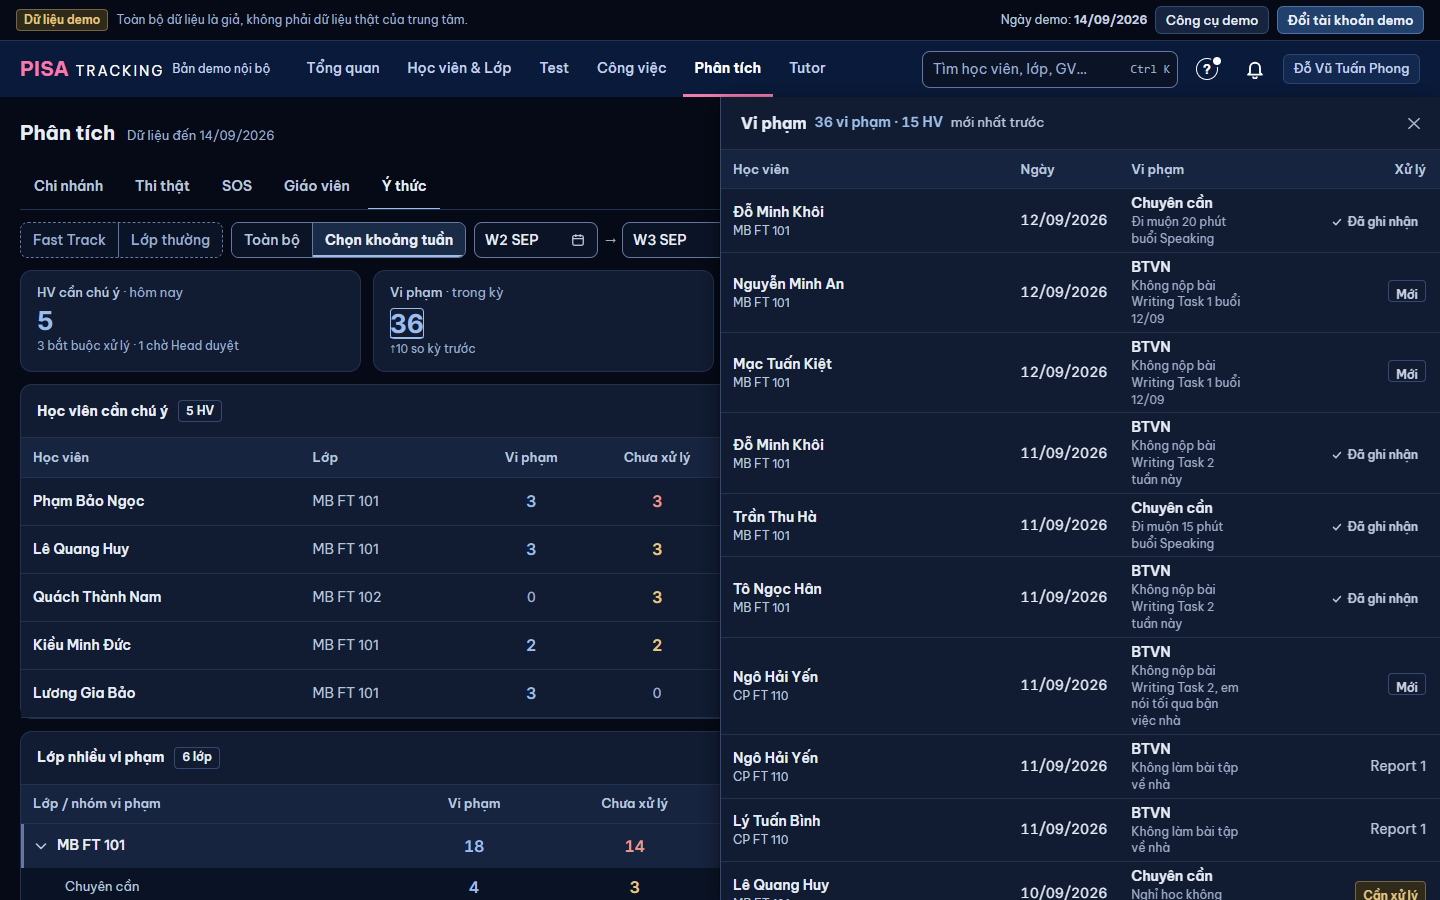
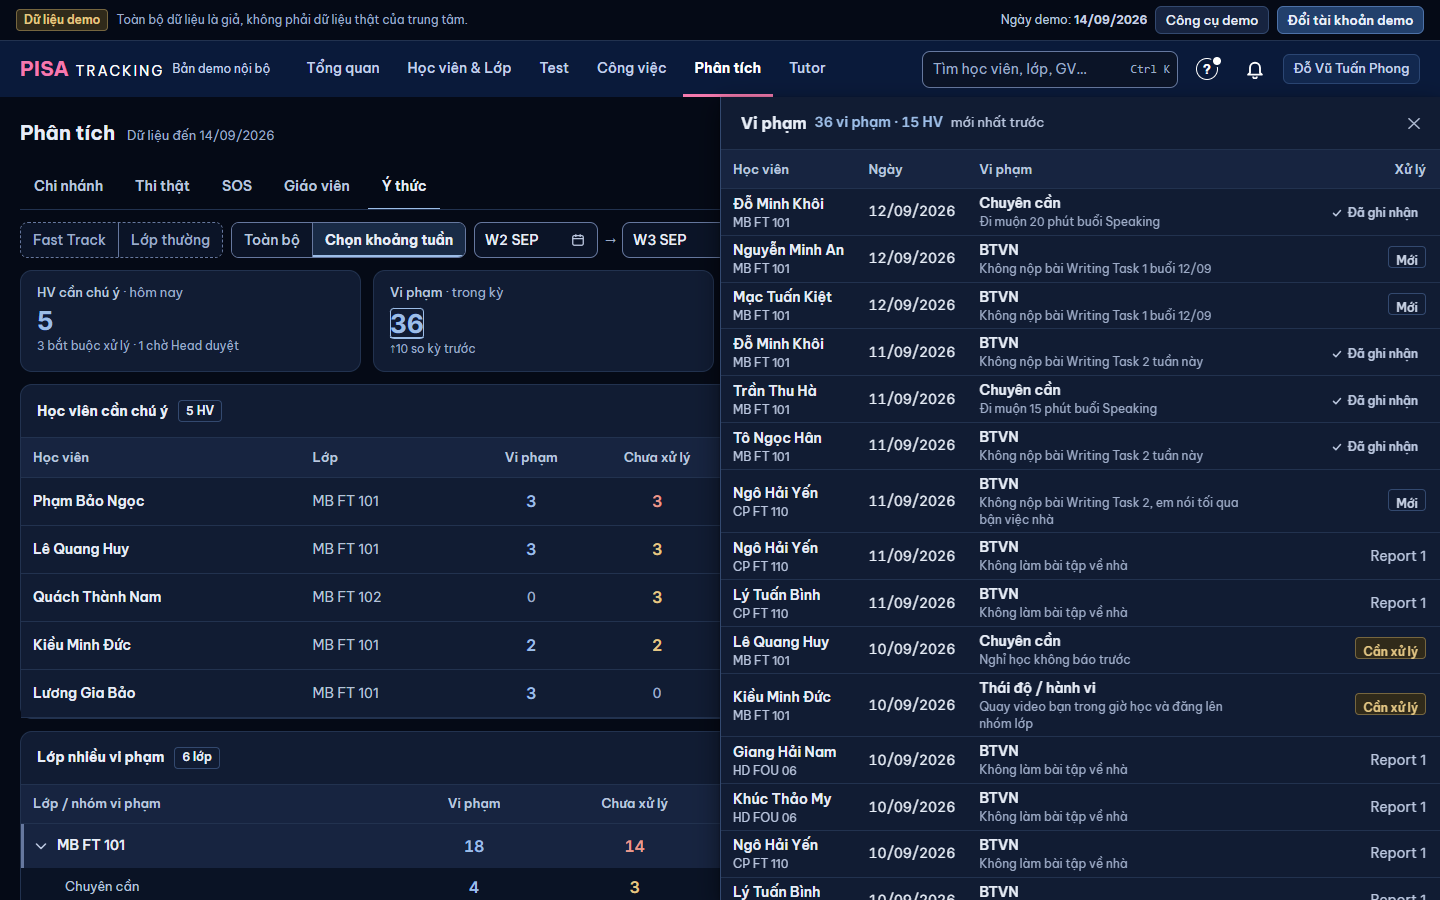
Panel số: chia lại cột (tên vừa chữ, cột chữ dài nhận phần dư, cột số đều, cột cuối sát phải)

diff --git a/web/src/index.css b/web/src/index.css
@@ -924,8 +924,15 @@
     .pn-bang .bang { table-layout: auto; }
     .pn-bang .bang col { width: auto !important; }
     .pn-bang .bang :is(th, td) { width: 1%; white-space: nowrap; }
-    .pn-bang .bang :is(th, td):is([data-kieu="ten"], [data-linh]) { width: auto; white-space: normal; overflow-wrap: anywhere; }
-    .pn-bang .bang :is(td[data-kieu="ten"], td[data-linh]) .bang-phu { white-space: normal; }
+    .pn-bang .bang :is(th, td)[data-linh] { width: auto; white-space: normal; overflow-wrap: anywhere; }
+    /* PTA 25/11: cột tên HV vừa TÊN dài nhất (không giành chỗ với cột chữ dài); cột linh hoạt (Vi phạm, PA, lý do) nhận phần dư, nhóm / mô tả tối đa 2 dòng, đủ chữ ở title. */
+    .pn-bang .bang :is(th, td)[data-kieu="ten"] { width: 1%; white-space: nowrap; }
+    [data-pn] .pn-than .pn-bang table.bang[data-deu] col[data-kieu="ten"] { width: 1% !important; }   /* thắng `--ten-pt` (40 % của cột tên) ở khối panel trên */
+    /* NH9 (chủ SP 25/11 "cân đối hàng cột"): cột số cùng bề rộng (đủ chữ "Chưa xử lý"), cột cuối căn phải sát mép panel. */
+    .pn-bang .bang :is(th, td)[data-kieu="so"] { min-width: 92px; }
+    [data-pn="so720"] .bang :is(th, td):last-child:not(:first-child, [data-linh]) { text-align: right; padding-right: 1.25rem; }
+    .pn-bang .bang td[data-linh] .bang-phu { white-space: normal; }
+    .pn-bang .bang td[data-linh] :is(.bang-phu, .cat-2d) { display: -webkit-box; -webkit-box-orient: vertical; -webkit-line-clamp: 2; overflow: hidden; }
     .pn-bang .bang > tbody > tr > td { padding-top: 0.45rem; padding-bottom: 0.45rem; }
   }
   .bang td[data-kieu="chip"] { white-space: nowrap; }

diff --git a/web/src/ui/BangSoPanel.tsx b/web/src/ui/BangSoPanel.tsx
@@ -2,7 +2,7 @@ import type { ReactNode } from 'react';
 
 /**
  * BẢNG TRONG PANEL SỐ 720 (SO-720, mockup v24 `phan-tich-panel-so.html` B0–B8; DESIGN NH9). Một bảng sát mép panel: cột 1 (Học viên) vừa chữ, mọi cột còn lại rộng
- * BẰNG NHAU và căn GIỮA; cột chữ / ngày căn trái; hạn ở cột cuối căn phải sát mép. Cột lý do (`nen`) nền nhấn nhạt. Dòng 48 px, không đường kẻ dọc.
+ * BẰNG NHAU và căn GIỮA; cột chữ / ngày căn trái; cột cuối căn phải sát mép. Cột lý do (`nen`) nền nhấn nhạt. Dòng 48 px, không đường kẻ dọc.
  * Cố định bố cục (`table-layout: fixed`): chữ dài xuống dòng trong ô, không đè sang ô bên.
  */
 export type CotSo = {
@@ -17,7 +17,8 @@ const CAN = { trai: 'text-left', giua: 'text-center', phai: 'text-right' } as co
 export function BangSoPanel<T>({ ten, cot, hang, khoa, o }: {
   ten: string; cot: readonly CotSo[]; hang: readonly T[]; khoa: (h: T) => string | number; o: (h: T, c: CotSo) => ReactNode;
 }) {
-  const canCua = (c: CotSo, i: number) => c.can ?? (i === 0 ? 'trai' : 'giua');
+  /* NH9: cột cuối SÁT MÉP PHẢI (không để khoảng trống giữa số cuối và mép panel). */
+  const canCua = (c: CotSo, i: number) => c.can ?? (i === 0 ? 'trai' : i === cot.length - 1 ? 'phai' : 'giua');
   return (
     <div className="table-scroll">
       <table className="w-full" style={{ tableLayout: 'fixed' }} aria-label={ten}>

diff --git a/web/src/ui/BangLuotPanel.tsx b/web/src/ui/BangLuotPanel.tsx
@@ -383,7 +383,7 @@ export function BangLuotPanel({ tieuDe, loai = t('Số · Test + SOS'), data, lo
     if (c.key === 'ten') return lkHv(h.studentId, h.ten);
     if (c.key === 'lop') return lkLop(h.classId, h.lop);
     if (c.key === 'ngay') return <span className="tabular-nums">{ddmm(h.ngay)}</span>;
-    if (c.key === 'vp') return <b className="font-semibold">{dich(h.nhom)}</b>;
+    if (c.key === 'vp') return <b className="cat-2d font-semibold" title={dich(h.nhom)}>{dich(h.nhom)}</b>;
     if (c.key === 'nguoi') return h.nguoiGhi ?? mo('—');
     return ttV(h);
   };
@@ -430,7 +430,7 @@ export function BangLuotPanel({ tieuDe, loai = t('Số · Test + SOS'), data, lo
     { key: 'pa', nhan: 'PA', kieu: 'chu', linhHoat: true },
     ...(nghiaVu
       ? [{ key: 'han', nhan: t('Hạn'), kieu: 'chu', rong: 104 }, { key: 'ghi', nhan: t('Ngày ghi'), kieu: 'chu', rong: 104 }, { key: 'dung', nhan: t('Đúng hạn'), kieu: 'chu', rong: 124 }] as DinhNghiaCot[]
-      : [{ key: 'kq', nhan: t('Kết quả'), kieu: 'chu', rong: 164 }, { key: 'nguoi', nhan: t('Người phụ trách'), kieu: 'chu', rong: 140 }] as DinhNghiaCot[]),
+      : [{ key: 'kq', nhan: t('Kết quả'), kieu: 'chu', rong: 164 }, { key: 'nguoi', nhan: t('Phụ trách'), kieu: 'chu', rong: 140 }] as DinhNghiaCot[]),
   ];
   const oP = (h: HP, c: DinhNghiaCot): ReactNode => {
     if (c.key === 'ten') return lkHv(h.studentId, h.ten);

diff --git a/docs/anh/panel-so-cao-het/khop-khac.md b/docs/anh/panel-so-cao-het/khop-khac.md
@@ -29,8 +29,61 @@ Ca 1 dòng — Thi thật › Theo GV, ô "1" Vượt:
 - 1280: `ket-qua-thi-1-hang-1280-truoc.png` | `ket-qua-thi-1-hang-1280-sau.png`
 - 375: `ket-qua-thi-1-hang-375-truoc.png` | `ket-qua-thi-1-hang-375-sau.png`
 
-Ca dài:
-- Ý thức, 36 vi phạm: `vi-pham-dai-1440-truoc.png` | `vi-pham-dai-1440-sau.png`
-- Tổng hợp, Lượt MT 8 dòng: `lan-mt-8-hang-1440-truoc.png` | `lan-mt-8-hang-1440-sau.png`
+Ca cột chữ dài (1440 và 1280): ảnh "trước" của nhóm này là khung cao hết nhưng cột cũ; "sau" là cột đã chia lại.
+- Ý thức, 36 vi phạm: `vi-pham-dai-{1440,1280}-truoc.png` | `…-sau.png`
+- Ý thức, theo lớp: `vi-pham-lop-{1440,1280}-truoc.png` | `…-sau.png`
+- Case chưa chốt PA: `chua-chot-pa-{1440,1280}-truoc.png` | `…-sau.png`
+- PA có cải thiện: `pa-co-cai-thien-{1440,1280}-truoc.png` | `…-sau.png`
 
-Không dùng chú thích `ponytail:`.
+## Chia lại cột chữ dài (PTA rà #2120)
+| Panel | TRƯỚC | SAU |
+|---|---|---|
+| Vi phạm (Ý thức) | Học viên 288 px, Ngày 111, Vi phạm 135 (mô tả 3–5 dòng), khoảng trống giữa Học viên và Ngày | Học viên 136 (vừa tên dài nhất), Ngày 111, Vi phạm 287 nhận phần dư, Xử lý sát phải; nhóm / mô tả tối đa 2 dòng, đủ chữ ở `title` |
+| PA có cải thiện | cột PA 91 (mô tả bị cắt), bảng tràn ngang ~20 px, "Người phụ trách" bị cắt mép phải | PA 179, đầu cột đổi "Phụ trách" (cùng tên với panel Chưa chốt PA), không tràn |
+| Chưa chốt PA · Tổng hợp · HV có Case | không đổi | cột cuối (Hạn / Kỳ vọng) căn phải sát mép |
+| Thi thật (bảng điểm) | cột cuối (Lệch / Target / Overall) căn giữa, cách mép phải ~50 px | cột cuối căn phải sát mép (`BangSoPanel`) |
+| Ý thức theo HV | "Vi phạm" 77 ≠ "Chưa xử lý" 91 | cột số cùng 92 px (`min-width`) |
+
+Gốc lỗi: khối panel đặt cột tên = 40 % bảng (`--ten-pt`). Sửa ở `web/src/index.css` (khối `.pn-bang`, ≥ 640): cột tên `width: 1%` + một dòng, cột linh hoạt nhận phần dư. Dùng chung nên mọi panel bảng số theo; đo 6 panel × 2 cỡ: `scrollWidth − clientWidth = 0`.
+
+## Số đo cột (JS, dark, vai Head) — mọi bảng trong panel số Phân tích
+Mỗi ô: `cột: rộng px / thừa px (rộng − đệm − chữ rộng nhất) / số dòng tối đa`. Tiêu chí PTA: không cột nào thừa > 40 px khi cột khác > 2 dòng · cột số đều nhau (lệch ≤ 8 px) · cột cuối căn phải sát mép (chữ cách mép ≤ 26 px) · không tràn ngang. Kết quả: **36 / 36 mẫu đạt** (bảng khác nhau × 1440, 1280).
+
+| Cỡ | Bảng (cột: rộng / thừa / dòng) |
+|---|---|
+| 1440 | Học viên:139/0/2d MT:74/0/2d L:68/-7/1d R:69/-7/1d W1:68/-7/1d W2:68/-7/1d S:69/-7/1d OVR:69/7/1d Kỳ vọng:97/49/1d |
+| 1440 | Học viên:124/0/2d MT:76/0/2d L:68/8/1d R:69/8/1d W1:70/-4/1d W2:70/-4/1d S:71/-4/1d OVR:71/10/1d Kỳ vọng:100/51/1d |
+| 1440 | Học viên:168/0/2d Case:209/0/1d Điểm / KV:100/18/1d Phụ trách:130/4/1d Hạn:112/-9/1d |
+| 1440 | Học viên:130/0/1d Lớp:93/0/2d Case:57/13/1d PA:179/0/3d Kết quả:159/0/1d Phụ trách:122/0/1d |
+| 1440 | Học viên:176/0/2d Ngày thi:104/9/1d L:73/43/1d R:73/43/1d W:73/43/1d S:73/43/1d OVR:73/29/1d Target:73/27/1d |
+| 1440 | Học viên:220/107/1d Lớp:110/31/1d Tuần học:110/48/1d MT gần nhất:168/0/1d Overall / KV:110/14/1d |
+| 1440 | Học viên:220/0/2d Ngày thi:125/30/1d L:125/79/1d Target:125/95/1d Lệch:125/69/1d |
+| 1440 | Học viên:220/0/2d Ngày thi:125/30/1d R:125/80/1d Target:125/95/1d Lệch:125/69/1d |
+| 1440 | Học viên:220/0/2d Ngày thi:125/30/1d W:125/79/1d Target:125/95/1d Lệch:125/69/1d |
+| 1440 | Học viên:220/0/2d Ngày thi:125/30/1d S:125/79/1d Target:125/95/1d Lệch:125/69/1d |
+| 1440 | Học viên:136/0/2d Ngày:111/0/1d Vi phạm:287/0/3d Xử lý:186/0/1d |
+| 1440 | Ngày:111/0/1d Vi phạm:495/0/2d Xử lý:113/-1/1d |
+| 1440 | Học viên:136/0/1d Lớp:90/0/1d Vi phạm:92/59/1d Chưa xử lý:92/59/1d Bậc hiện tại:148/0/1d Lần xử lý gần nhất:162/16/1d |
+| 1440 | Học viên:127/0/2d Ngày:111/0/1d Vi phạm:296/0/2d Xử lý:186/0/1d |
+| 1440 | Học viên:127/0/1d Lớp:90/0/1d Vi phạm:92/59/1d Chưa xử lý:92/59/1d Bậc hiện tại:148/0/1d Lần xử lý gần nhất:171/132/1d |
+| 1440 | Học viên:141/0/1d Bài:465/0/2d Hạn:113/0/1d |
+| 1440 | Học viên:129/0/1d Bài:477/0/2d Hạn:113/0/1d |
+| 1440 | Học viên:146/0/1d Việc:368/0/2d Lớp:93/0/1d Hạn:113/0/1d |
+| 1280 | Học viên:139/0/2d MT:74/0/2d L:68/-7/1d R:69/-7/1d W1:68/-7/1d W2:68/-7/1d S:69/-7/1d OVR:69/7/1d Kỳ vọng:97/49/1d |
+| 1280 | Học viên:124/0/2d MT:76/0/2d L:68/8/1d R:69/8/1d W1:70/-4/1d W2:70/-4/1d S:71/-4/1d OVR:71/10/1d Kỳ vọng:100/51/1d |
+| 1280 | Học viên:168/0/2d Case:209/0/1d Điểm / KV:100/18/1d Phụ trách:130/4/1d Hạn:112/-9/1d |
+| 1280 | Học viên:130/0/1d Lớp:93/0/2d Case:57/13/1d PA:179/0/3d Kết quả:159/0/1d Phụ trách:122/0/1d |
+| 1280 | Học viên:176/0/2d Ngày thi:104/9/1d L:73/43/1d R:73/43/1d W:73/43/1d S:73/43/1d OVR:73/29/1d Target:73/27/1d |
+| 1280 | Học viên:220/107/1d Lớp:110/31/1d Tuần học:110/48/1d MT gần nhất:168/0/1d Overall / KV:110/14/1d |
+| 1280 | Học viên:220/0/2d Ngày thi:125/30/1d L:125/79/1d Target:125/95/1d Lệch:125/69/1d |
+| 1280 | Học viên:220/0/2d Ngày thi:125/30/1d R:125/80/1d Target:125/95/1d Lệch:125/69/1d |
+| 1280 | Học viên:220/0/2d Ngày thi:125/30/1d W:125/79/1d Target:125/95/1d Lệch:125/69/1d |
+| 1280 | Học viên:220/0/2d Ngày thi:125/30/1d S:125/79/1d Target:125/95/1d Lệch:125/69/1d |
+| 1280 | Học viên:136/0/2d Ngày:111/0/1d Vi phạm:287/0/3d Xử lý:186/0/1d |
+| 1280 | Ngày:111/0/1d Vi phạm:495/0/2d Xử lý:113/-1/1d |
+| 1280 | Học viên:136/0/1d Lớp:90/0/1d Vi phạm:92/59/1d Chưa xử lý:92/59/1d Bậc hiện tại:148/0/1d Lần xử lý gần nhất:162/16/1d |
+| 1280 | Học viên:127/0/2d Ngày:111/0/1d Vi phạm:296/0/2d Xử lý:186/0/1d |
+| 1280 | Học viên:127/0/1d Lớp:90/0/1d Vi phạm:92/59/1d Chưa xử lý:92/59/1d Bậc hiện tại:148/0/1d Lần xử lý gần nhất:171/132/1d |
+| 1280 | Học viên:141/0/1d Bài:465/0/2d Hạn:113/0/1d |
+| 1280 | Học viên:129/0/1d Bài:477/0/2d Hạn:113/0/1d |
+| 1280 | Học viên:146/0/1d Việc:368/0/2d Lớp:93/0/1d Hạn:113/0/1d |
